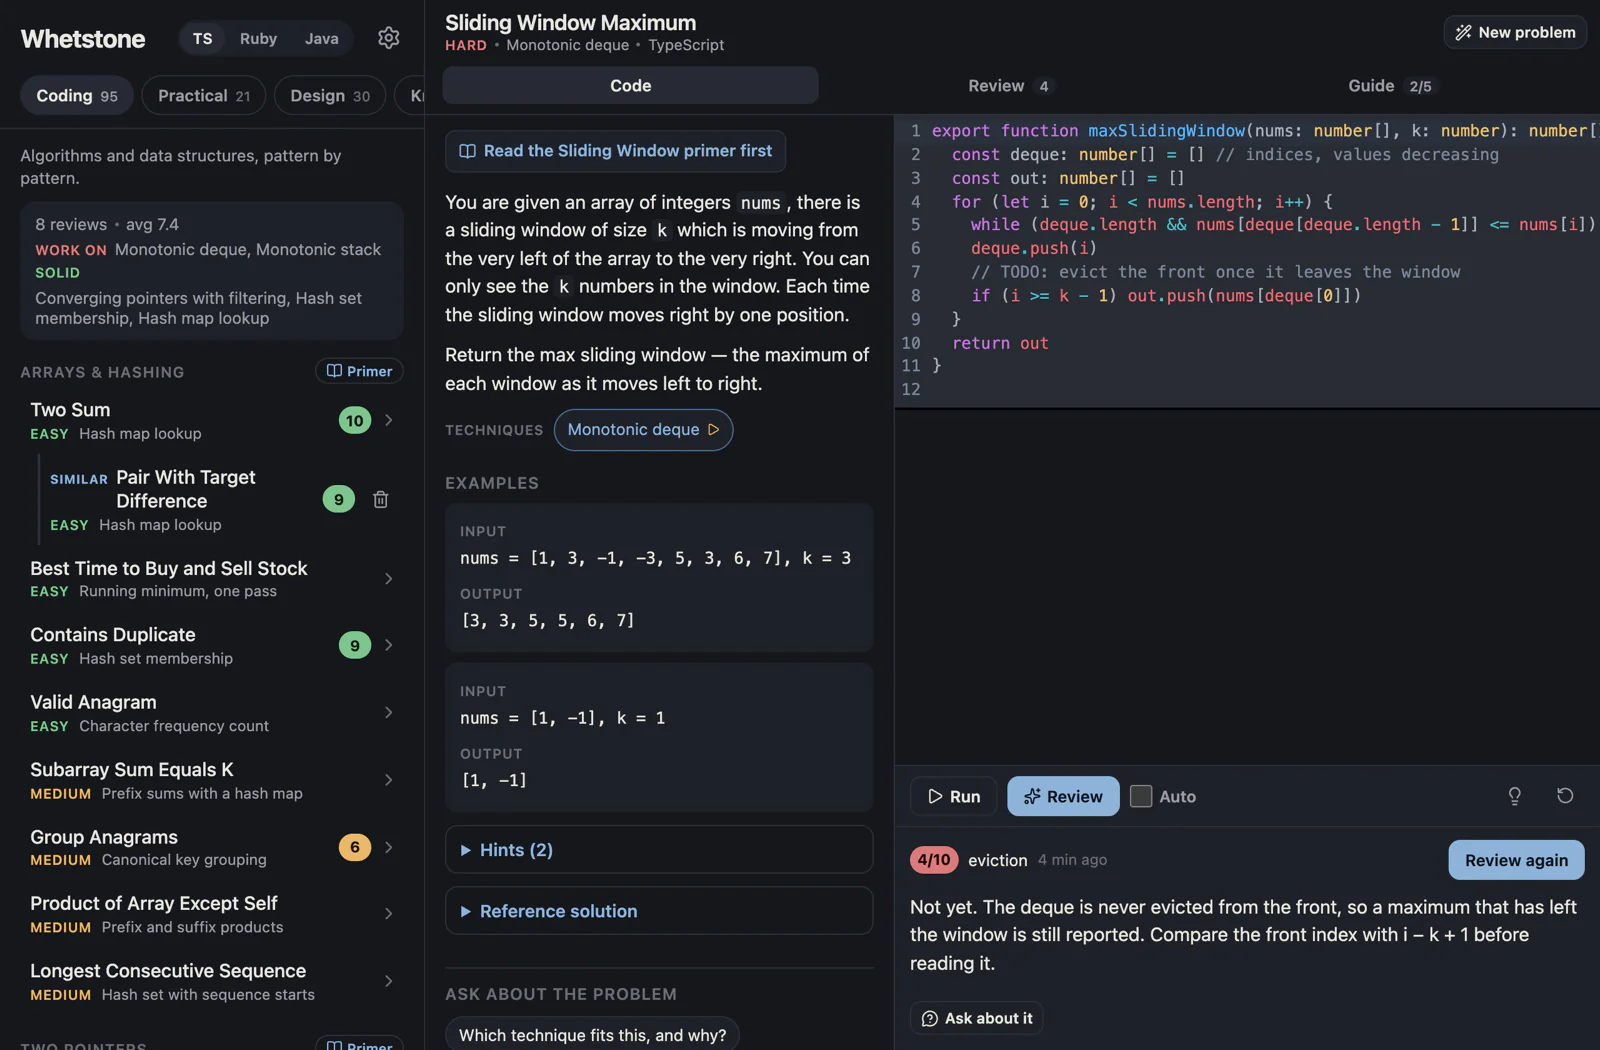
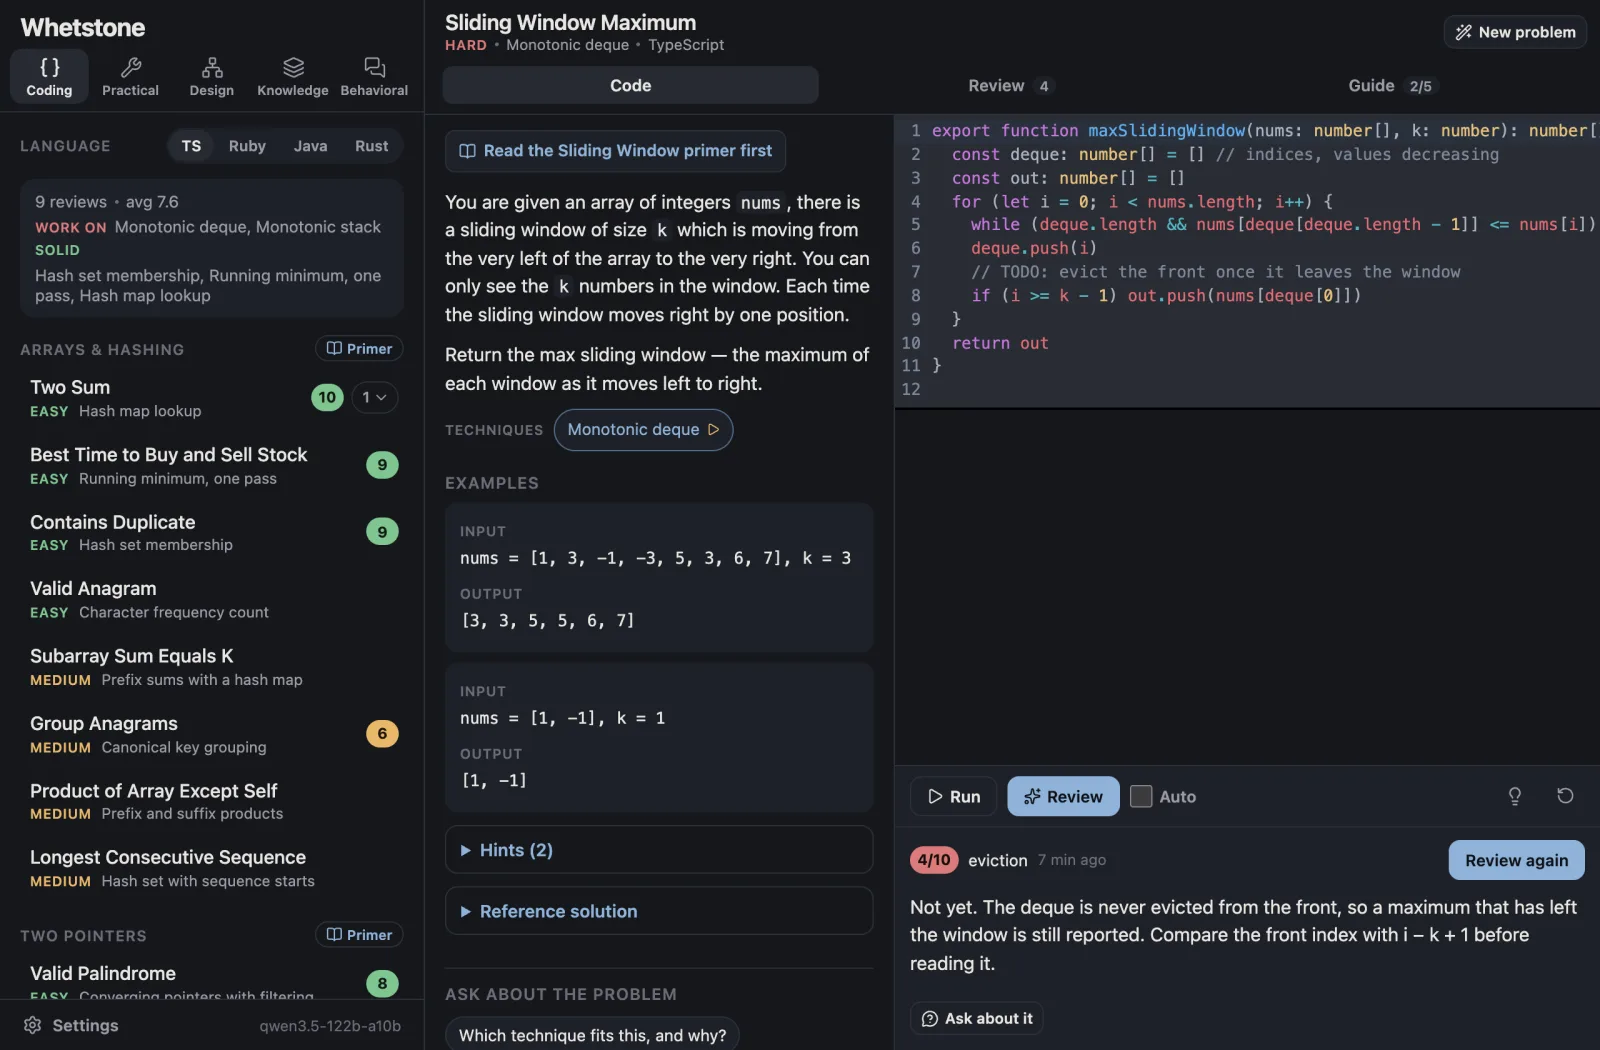
feat: Whetstone card shows the new sidebar and names Rust

diff --git a/src/data/projects.tsx b/src/data/projects.tsx
@@ -142,7 +142,7 @@ const projectDetails: ProjectDetailType[] = [
     onDesktop: [whetstoneWide],
     onPhone: [whetstoneWide],
     summaryId: 'whetstone-summary',
-    summary: 'Whetstone is an interview practice tool with a local model as the reviewer. The server runs each solution against real tests in a sandbox, in TypeScript, Ruby or Java. It then sends the draft and the results to the model over the OpenAI chat API and streams back a scored review, a hint ladder or a tutor thread. New problems are generated against a JSON schema and verified against their own tests before they are saved.',
+    summary: 'Whetstone is an interview practice tool with a local model as the reviewer. The server runs each solution against real tests in a sandbox, in TypeScript, Ruby, Java or Rust. It then sends the draft and the results to the model over the OpenAI chat API and streams back a scored review, a hint ladder or a tutor thread. New problems are generated against a JSON schema and verified against their own tests before they are saved.',
   }, {
     title: 'CAIRN',
     repoUrl: 'https://github.com/akuttruff/cairn',
